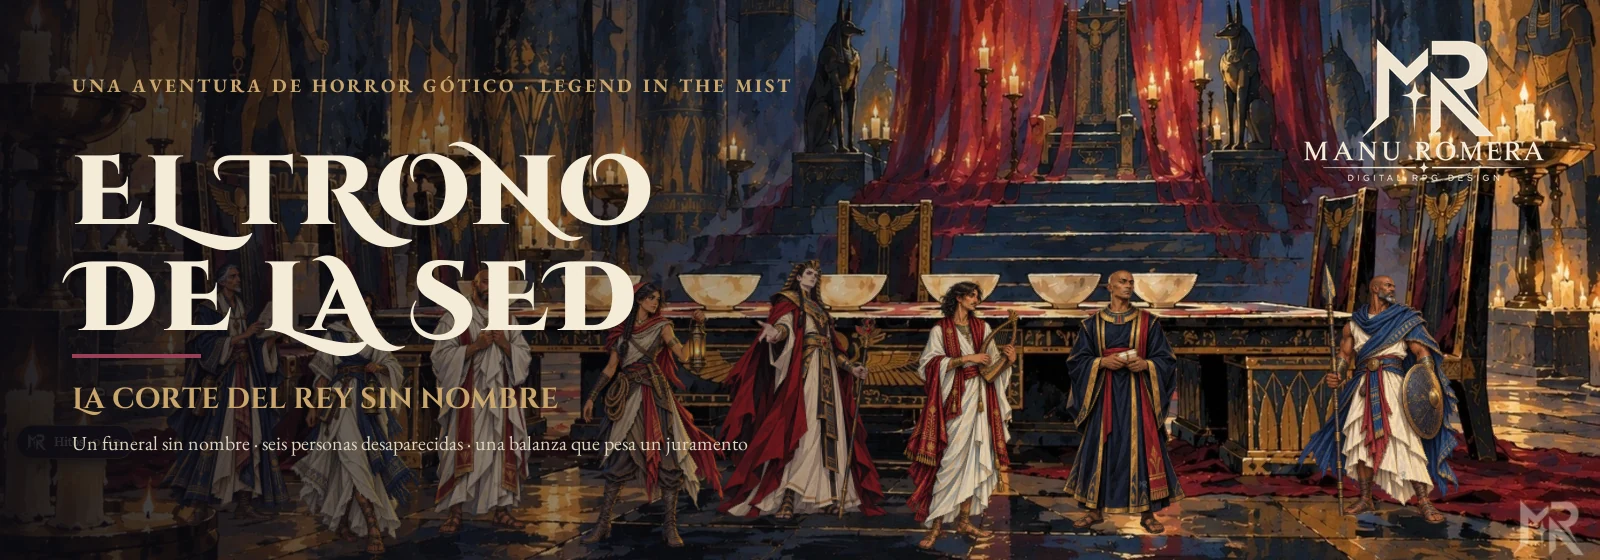
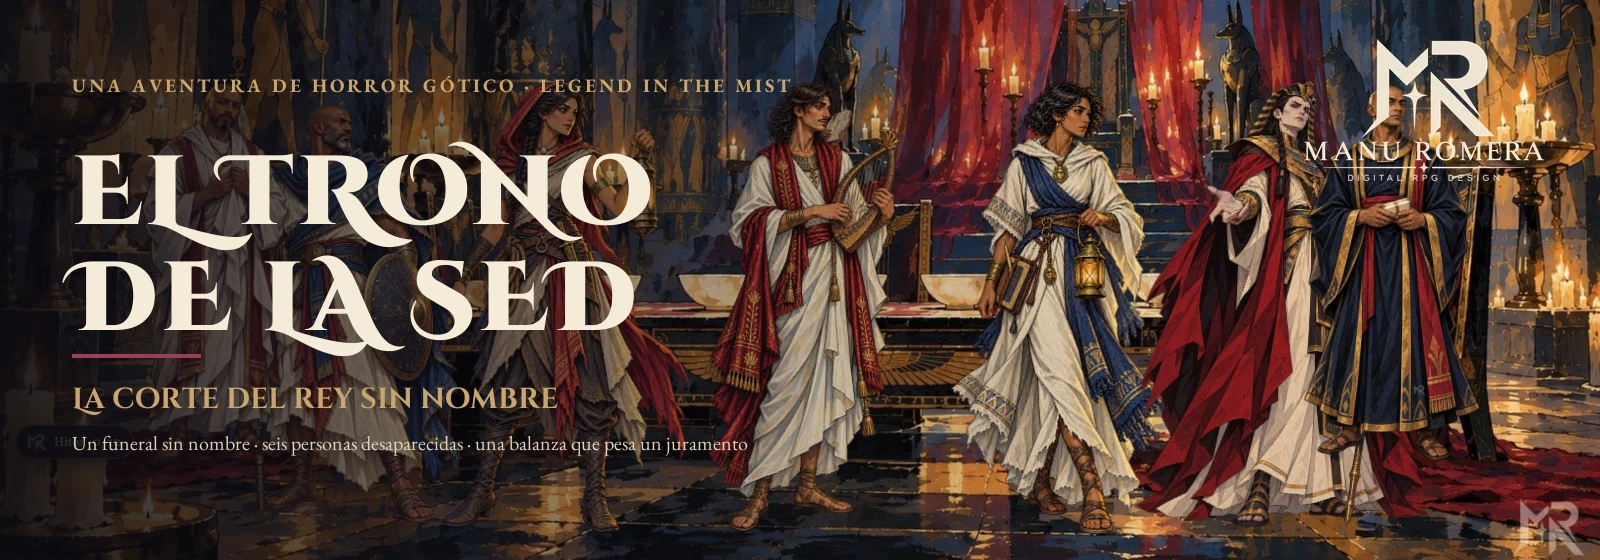
fix: escala de figuras por perspectiva real y puntos de apoyo solo sobre suelo; capturas rehechas (1.4.0)

diff --git a/README.md b/README.md
@@ -45,7 +45,7 @@ La **barra del Narrador** vive sobre el lienzo y reúne lo que necesitas durante
 
 ## 🧍 Figuras que respetan la perspectiva
 
-Cada fondo declara su **zona de suelo** y los puntos donde realmente cabe una persona. Al colocar a los protagonistas y a los PNJ, cada figura pisa un lugar real de la escena y **su tamaño depende de lo lejos que esté**: los que quedan al fondo se ven pequeños y los que están en primer plano, grandes. Si arrastras una figura hacia el fondo, se encoge; hacia el frente, crece, conservando siempre su apoyo en el suelo. Se activa o desactiva desde **Figuras → Escala por profundidad**.
+Cada fondo declara su **línea de horizonte** y los puntos donde realmente cabe una persona (solo suelo firme). Al colocar a los protagonistas y a los PNJ, cada figura pisa un lugar real de la escena y **su tamaño sale de la perspectiva del dibujo**: junto al trono se ve pequeña, ante la mesa y las sillas del banquete, a escala con ellas. Si arrastras una figura hacia el fondo, se encoge; hacia el frente, crece, conservando siempre su apoyo en el suelo. Se activa o desactiva desde **Figuras → Escala por profundidad**.
 
 | | |
 |---|---|

diff --git a/CHANGELOG.md b/CHANGELOG.md
@@ -2,6 +2,7 @@
 
 ## 1.4.0 — 21 de octubre de 2026
 
+- **Escala por perspectiva real:** cada fondo declara su línea de horizonte (la cabeza de una persona de pie queda en ella) y puntos de apoyo solo sobre suelo firme; el tamaño de cada figura sale de su altura en el cuadro (más pequeña junto al trono, grande ante la mesa y las sillas) y se recalcula al arrastrarla.
 - La marca MR de los tokens pasa a ser un sello diminuto y muy discreto cosido en la ropa de cada figura (antes iba bajo los pies).
 - **Ambiente por escena:** claro, penumbra u oscuro cambian la luz de la escena y el volumen del fondo a la vez; se recuerda por escena.
 - **Hitos de la investigación:** doce descubrimientos sin spoilers que marca el Narrador; insignia y panel visibles para toda la mesa (Alt+H) con aviso en cada hito nuevo.
